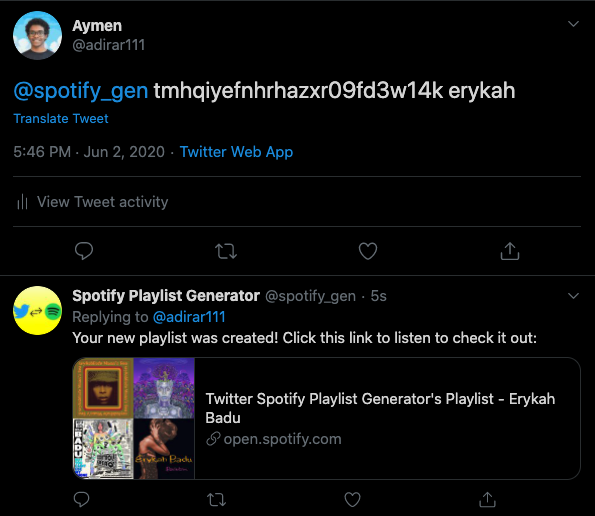
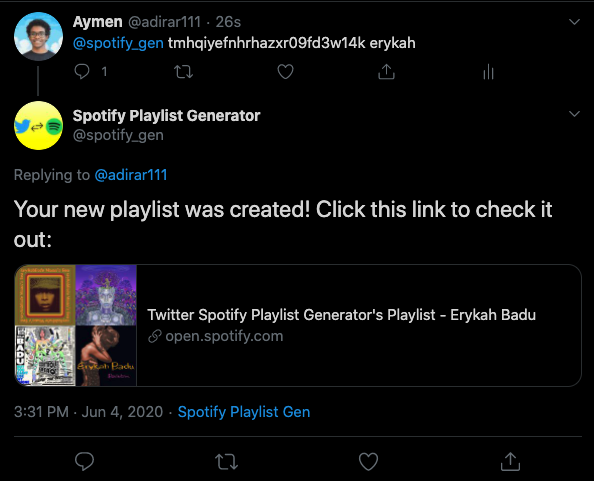
typo + rate limiting addition

diff --git a/twitter_bot.py b/twitter_bot.py
@@ -9,7 +9,7 @@ FILE_NAME = 'last_seen_id.txt'
 # sets up bot for use in file
 auth = tweepy.OAuthHandler(twitter_api_key, twitter_api_secret_key)
 auth.set_access_token(twitter_access_token, twitter_access_token_secret)
-twitter_api = tweepy.API(auth)
+twitter_api = tweepy.API(auth, wait_on_rate_limit=True, wait_on_rate_limit_notify=True) # prints to console when rate limit is exceeded
         
 # EFFECTS: gets the last seen id that was tweeted at the bot
 def get_last_seen_id():
@@ -29,9 +29,9 @@ def store_last_seen_id(last_seen_id):
 def run_twitter_bot():
     try: 
         last_seen_id = get_last_seen_id()
-        print(last_seen_id)
+        print(last_seen_id) # to keep track
     except:
-        last_seen_id = 1267983029684690944 # place holder if last_seen_id is empty
+        last_seen_id = 1268671718656110593 # place holder if last_seen_id is empty
     
     mentions = twitter_api.mentions_timeline(last_seen_id)
     
@@ -51,7 +51,7 @@ def run_twitter_bot():
                 spotify_bot = spotify_client.SpotifyClient(spotify_username)
                 spotify_bot.create_playlist_with_tracks(search_string)
                 playlist_url = spotify_bot.playlist_url
-                twitter_api.update_status("@" + mention.user.screen_name + " Your new playlist was created! Click this link to listen to check it out: " + playlist_url, mention.id)
+                twitter_api.update_status("@" + mention.user.screen_name + " Your new playlist was created! Click this link to check it out: " + playlist_url, mention.id)
             except:
                 twitter_api.update_status("@" + mention.user.screen_name + " Hey! Something went wrong when I tried connecting to Spotify. Please make sure your username is correct and try again. If the problem persists, please contact the developer.", mention.id)
         else:

diff --git a/spotify_client.py b/spotify_client.py
@@ -44,3 +44,4 @@ class SpotifyClient:
         # extracts artist's top songs uris
         list_track_uris = [track_data["tracks"][i]["uri"] for i, data in enumerate(track_data["tracks"])]
         return list_track_uris
+    

diff --git a/README.md b/README.md
@@ -8,6 +8,8 @@ To use the bot, run the script in twitter_bot.py
 
 Ensure you create a secrets.py file in the folder with the appropriate api keys and variable names.
 
+First, follow the bot on twitter in order for it to receive your tweets.
+
 In order for it work properly the tweet should be formatted as the following:
 > @spotify_gen [username] [search-string]
 
